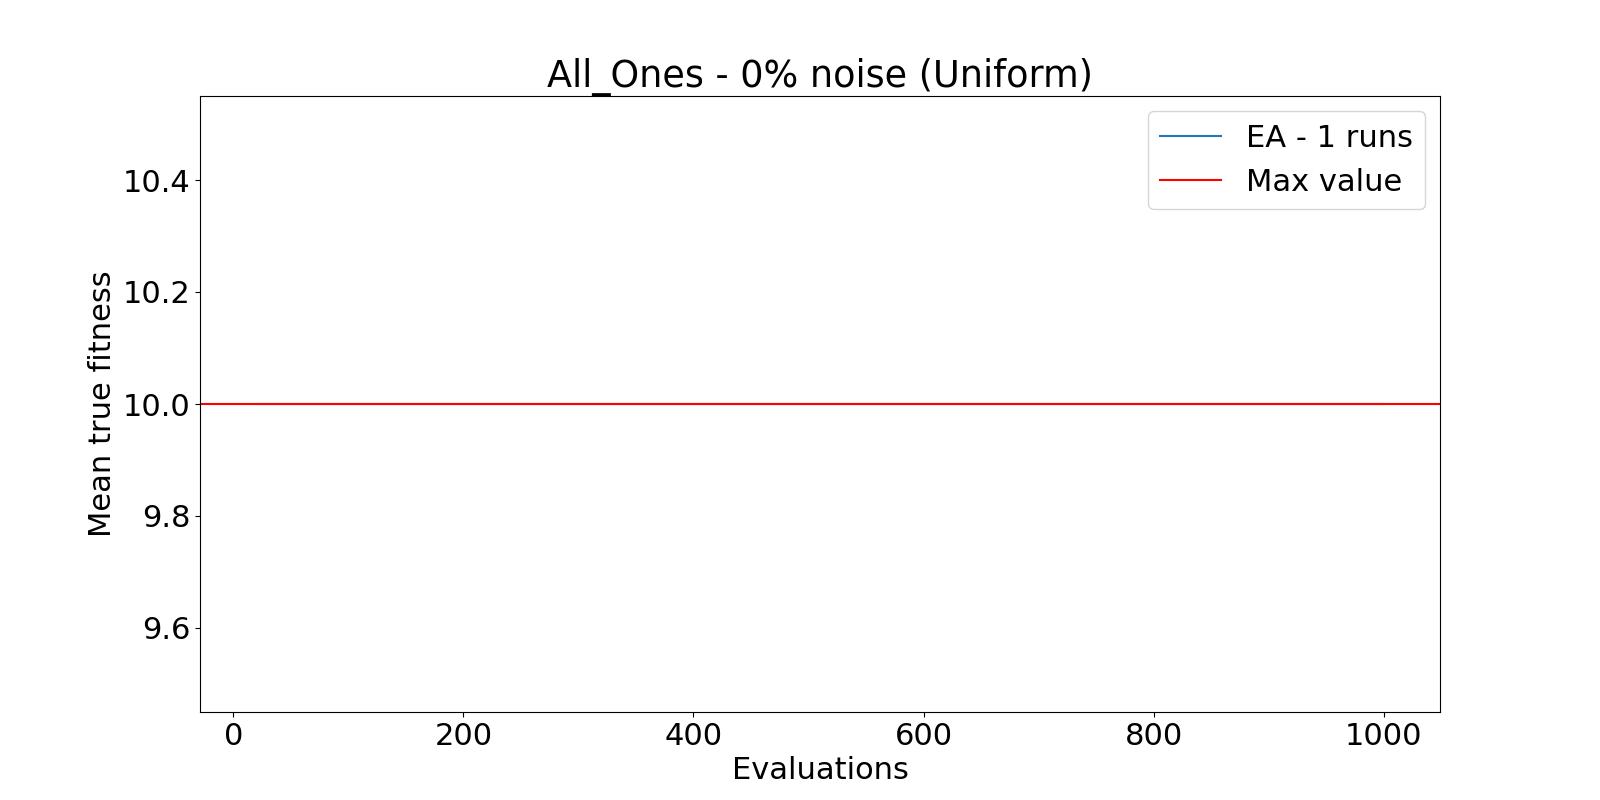
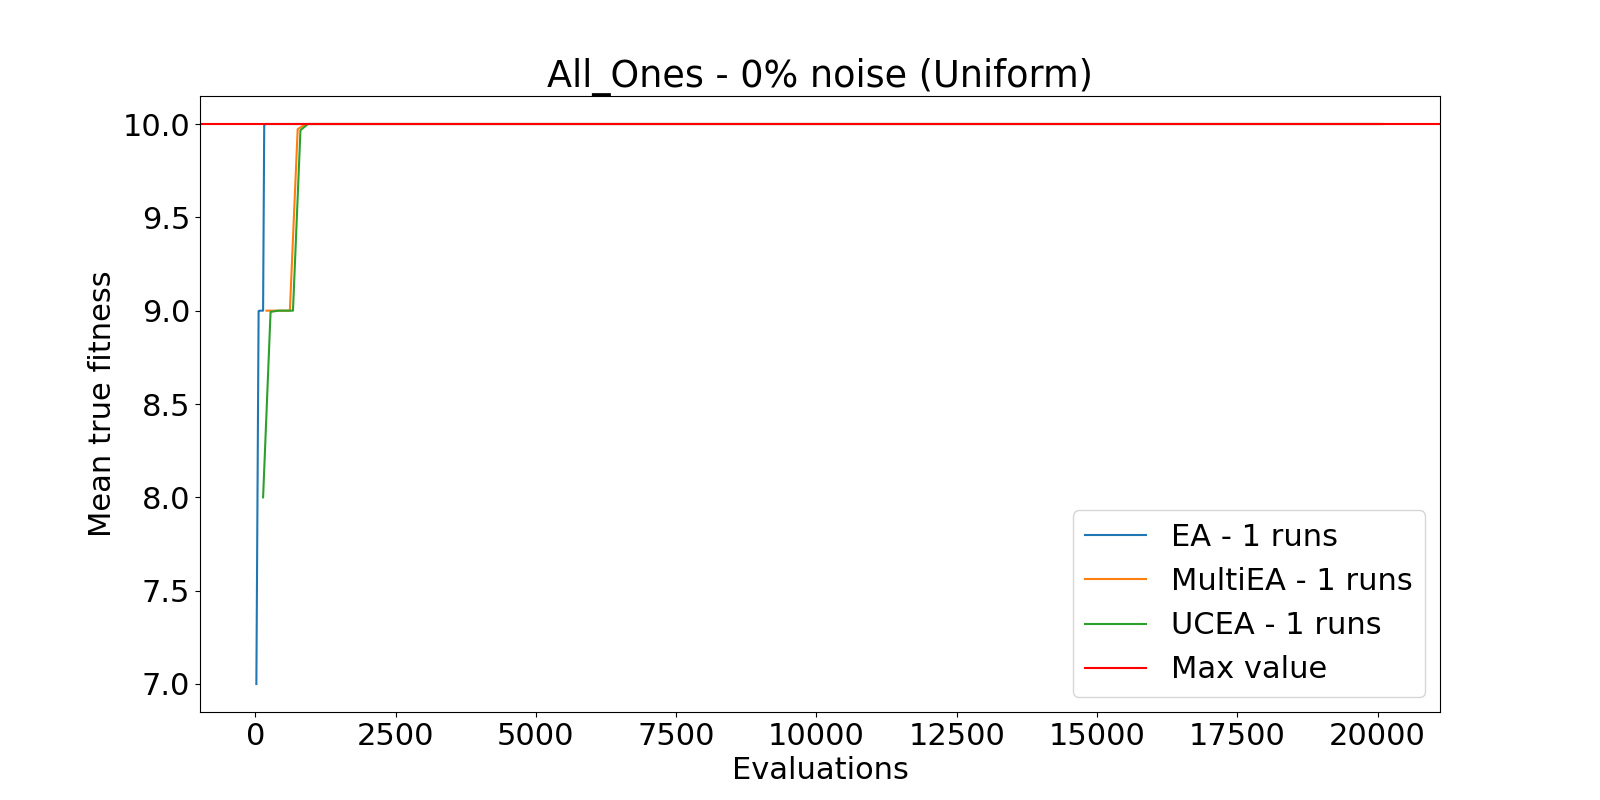
Boolean/Float ind support

diff --git a/src/problems/problems.py b/src/problems/problems.py
@@ -30,6 +30,7 @@ class AllOnes(Problem):
         self.name = "All_Ones"
         self.n_genes = 10
         self.max_fit = 10
+        self.bool_ind = True
 
     def __repr__(self):
         return f"All Ones - {self.n_genes} genes"
@@ -46,6 +47,7 @@ class LeadingOnes(Problem):
         self.name = "Leading_Ones"
         self.n_genes = 10
         self.max_fit = 10
+        self.bool_ind = True
 
     def __repr__(self):
         return f"Leading Ones - {self.n_genes} genes"
@@ -73,6 +75,7 @@ class RL(Problem):
         self.n_genes = berl.get_genome_size(self.Net, c51=False)
         self.name = env
         self.max_fit = 200
+        self.bool_ind = False
 
     def __repr__(self):
         return f"RL - {self.name}"
@@ -131,9 +134,9 @@ class Noisy:
     def __init__(self, pb, noise=0.5, normal=True):
         self.pb = pb
         self.noise = noise
-        self.max_fit=self.pb.max_fit
-        self.n_genes=self.pb.n_genes
-        self.name=self.pb.name
+        # self.max_fit=self.pb.max_fit
+        # self.n_genes=self.pb.n_genes
+        # self.name=self.pb.name
         self.normal=normal
 
     def __repr__(self):
@@ -141,6 +144,9 @@ class Noisy:
 
     def __str__(self):
         return self.__repr__()
+
+    def __getattr__(self, key):
+        return self.pb.__getattribute__(key)
         
     def get_noise(self):
         if self.normal:

diff --git a/src/algos/population.py b/src/algos/population.py
@@ -7,6 +7,7 @@ class Population:
         self.args = args
         self.agents = np.array([])
         self.sorted = False
+        self.ind_type = BoolInd if args["bool_ind"] else Ind
         
     def __repr__(self):
         s = "Population:\n"
@@ -18,7 +19,7 @@ class Population:
         return len(self.agents)
         
     def random(self):
-        self.agents = np.array([BoolInd(self.args).random() for _ in range(self.args["n_pop"])])
+        self.agents = np.array([self.ind_type(self.args).random() for _ in range(self.args["n_pop"])])
         self.sorted = False
         return self
         

diff --git a/run_xp.py b/run_xp.py
@@ -38,12 +38,15 @@ if __name__ == "__main__":
 
     args.n_genes = pb.n_genes
     args.max_fit = pb.max_fit
+    args.bool_ind = pb.bool_ind
 
     if rank == 0:
         # flush("Main node - creating EA\n")
-        server = Server(pb)
-        run_xp(server, args)
-        server.stop()
+        try:
+            server = Server(pb)
+            run_xp(server, args)
+        finally:
+            server.stop()
     else:
         # flush(f"Creating node {rank}\n")
         client = Client(pb)

diff --git a/results.md b/results.md
@@ -6,15 +6,17 @@
 - Fitness: $$10 - MSE(genome, [1, ..., 1])$$
 ### Uniform noise
 
-|%Noise|Fitness / Gen |Fitness / Eval| Cost / Gen |
+<!-- |%Noise|Fitness / Gen |Fitness / Eval| Cost / Gen |
 |---|---|---|---|
-<!-- |0%|![](plots/Uniform/Gen_All_Ones_0.png)|![](plots/Uniform/Eval_All_Ones_0.png)|![](plots/Uniform/Cost_All_Ones_0.png)
+|0%|![](plots/Uniform/Gen_All_Ones_0.png)|![](plots/Uniform/Eval_All_Ones_0.png)|![](plots/Uniform/Cost_All_Ones_0.png)
 |25%|![](plots/Uniform/Gen_All_Ones_25.png)|![](plots/Uniform/Eval_All_Ones_25.png)|![](plots/Uniform/Cost_All_Ones_25.png)
 |50%|![](plots/Uniform/Gen_All_Ones_50.png)|![](plots/Uniform/Eval_All_Ones_50.png)|![](plots/Uniform/Cost_All_Ones_50.png)
 |75%|![](plots/Uniform/Gen_All_Ones_75.png)|![](plots/Uniform/Eval_All_Ones_75.png)|![](plots/Uniform/Cost_All_Ones_75.png)
 |100%|![](plots/Uniform/Gen_All_Ones_100.png)|![](plots/Uniform/Eval_All_Ones_100.png)|![](plots/Uniform/Cost_All_Ones_100.png)
 |200%|![](plots/Uniform/Gen_All_Ones_200.png)|![](plots/Uniform/Eval_All_Ones_200.png)|![](plots/Uniform/Cost_All_Ones_200.png) -->
 
+|%Noise|Fitness / Eval
+|---|---|
 |0%|![](plots/Uniform/Eval_All_Ones_0.png)
 |25%|![](plots/Uniform/Eval_All_Ones_25.png)
 |50%|![](plots/Uniform/Eval_All_Ones_50.png)
@@ -22,15 +24,26 @@
 |100%|![](plots/Uniform/Eval_All_Ones_100.png)
 |200%|![](plots/Uniform/Eval_All_Ones_200.png)
 
-### Normal noise
+<!-- ### Normal noise
 |%Noise|Fitness / Gen |Fitness / Eval| Cost / Gen |
 |---|---|---|---|
 |0%|![](plots/Normal/Gen_All_Ones_0.png)|![](plots/Normal/Eval_All_Ones_0.png)|![](plots/Normal/Cost_All_Ones_0.png)
 |25%|![](plots/Normal/Gen_All_Ones_25.png)|![](plots/Normal/Eval_All_Ones_25.png)|![](plots/Normal/Cost_All_Ones_25.png)
 |50%|![](plots/Normal/Gen_All_Ones_50.png)|![](plots/Normal/Eval_All_Ones_50.png)|![](plots/Normal/Cost_All_Ones_50.png)
 |75%|![](plots/Normal/Gen_All_Ones_75.png)|![](plots/Normal/Eval_All_Ones_75.png)|![](plots/Normal/Cost_All_Ones_75.png)
-|100%|![](plots/Normal/Gen_All_Ones_100.png)|![](plots/Normal/Eval_All_Ones_100.png)|![](plots/Normal/Cost_All_Ones_100.png)
+|100%|![](plots/Normal/Gen_All_Ones_100.png)|![](plots/Normal/Eval_All_Ones_100.png)|![](plots/Normal/Cost_All_Ones_100.png) -->
 
+## Leading Ones
+### Uniform noise
+
+|%Noise|Fitness / Eval
+|---|---|
+|0%|![](plots/Uniform/Eval_Leading_Ones_0.png)
+|25%|![](plots/Uniform/Eval_Leading_Ones_25.png)
+|50%|![](plots/Uniform/Eval_Leading_Ones_50.png)
+|75%|![](plots/Uniform/Eval_Leading_Ones_75.png)
+|100%|![](plots/Uniform/Eval_Leading_Ones_100.png)
+|200%|![](plots/Uniform/Eval_Leading_Ones_200.png)
 
 
 ## CartPole 
@@ -40,21 +53,29 @@
 
 
 ### Uniform noise
+|%Noise|Fitness / Eval
+|---|---|
+|0%|![](plots/Uniform/Eval_CartPole-v1_0.png)
+|25%|![](plots/Uniform/Eval_CartPole-v1_25.png)
+|50%|![](plots/Uniform/Eval_CartPole-v1_50.png)
+|75%|![](plots/Uniform/Eval_CartPole-v1_75.png)
+|100%|![](plots/Uniform/Eval_CartPole-v1_100.png)
+|200%|![](plots/Uniform/Eval_CartPole-v1_200.png)
 
-|%Noise|Fitness / Gen |Fitness / Eval| Cost / Gen |
+<!-- |%Noise|Fitness / Gen |Fitness / Eval| Cost / Gen |
 |---|---|---|---|
 |0%|![](plots/Uniform/Gen_CartPole-v1_0.png)|![](plots/Uniform/Eval_CartPole-v1_0.png)|![](plots/Uniform/Cost_CartPole-v1_0.png)
 |25%|![](plots/Uniform/Gen_CartPole-v1_25.png)|![](plots/Uniform/Eval_CartPole-v1_25.png)|![](plots/Uniform/Cost_CartPole-v1_25.png)
 |50%|![](plots/Uniform/Gen_CartPole-v1_50.png)|![](plots/Uniform/Eval_CartPole-v1_50.png)|![](plots/Uniform/Cost_CartPole-v1_50.png)
 |75%|![](plots/Uniform/Gen_CartPole-v1_75.png)|![](plots/Uniform/Eval_CartPole-v1_75.png)|![](plots/Uniform/Cost_CartPole-v1_75.png)
-|100%|![](plots/Uniform/Gen_CartPole-v1_100.png)|![](plots/Uniform/Eval_CartPole-v1_100.png)|![](plots/Uniform/Cost_CartPole-v1_100.png)
+|100%|![](plots/Uniform/Gen_CartPole-v1_100.png)|![](plots/Uniform/Eval_CartPole-v1_100.png)|![](plots/Uniform/Cost_CartPole-v1_100.png) -->
 
 ### Normal noise
 
-|%Noise|Fitness / Gen |Fitness / Eval|
+<!-- |%Noise|Fitness / Gen |Fitness / Eval|
 |---|---|---|
 |0%|![](plots/Normal/Gen_CartPole-v1_0.png)|![](plots/Normal/Eval_CartPole-v1_0.png)
 |25%|![](plots/Normal/Gen_CartPole-v1_25.png)|![](plots/Normal/Eval_CartPole-v1_25.png)
 |50%|![](plots/Normal/Gen_CartPole-v1_50.png)|![](plots/Normal/Eval_CartPole-v1_50.png)
 |75%|![](plots/Normal/Gen_CartPole-v1_75.png)|![](plots/Normal/Eval_CartPole-v1_75.png)
-|100%|![](plots/Normal/Gen_CartPole-v1_100.png)|![](plots/Normal/Eval_CartPole-v1_100.png)
+|100%|![](plots/Normal/Gen_CartPole-v1_100.png)|![](plots/Normal/Eval_CartPole-v1_100.png) -->
